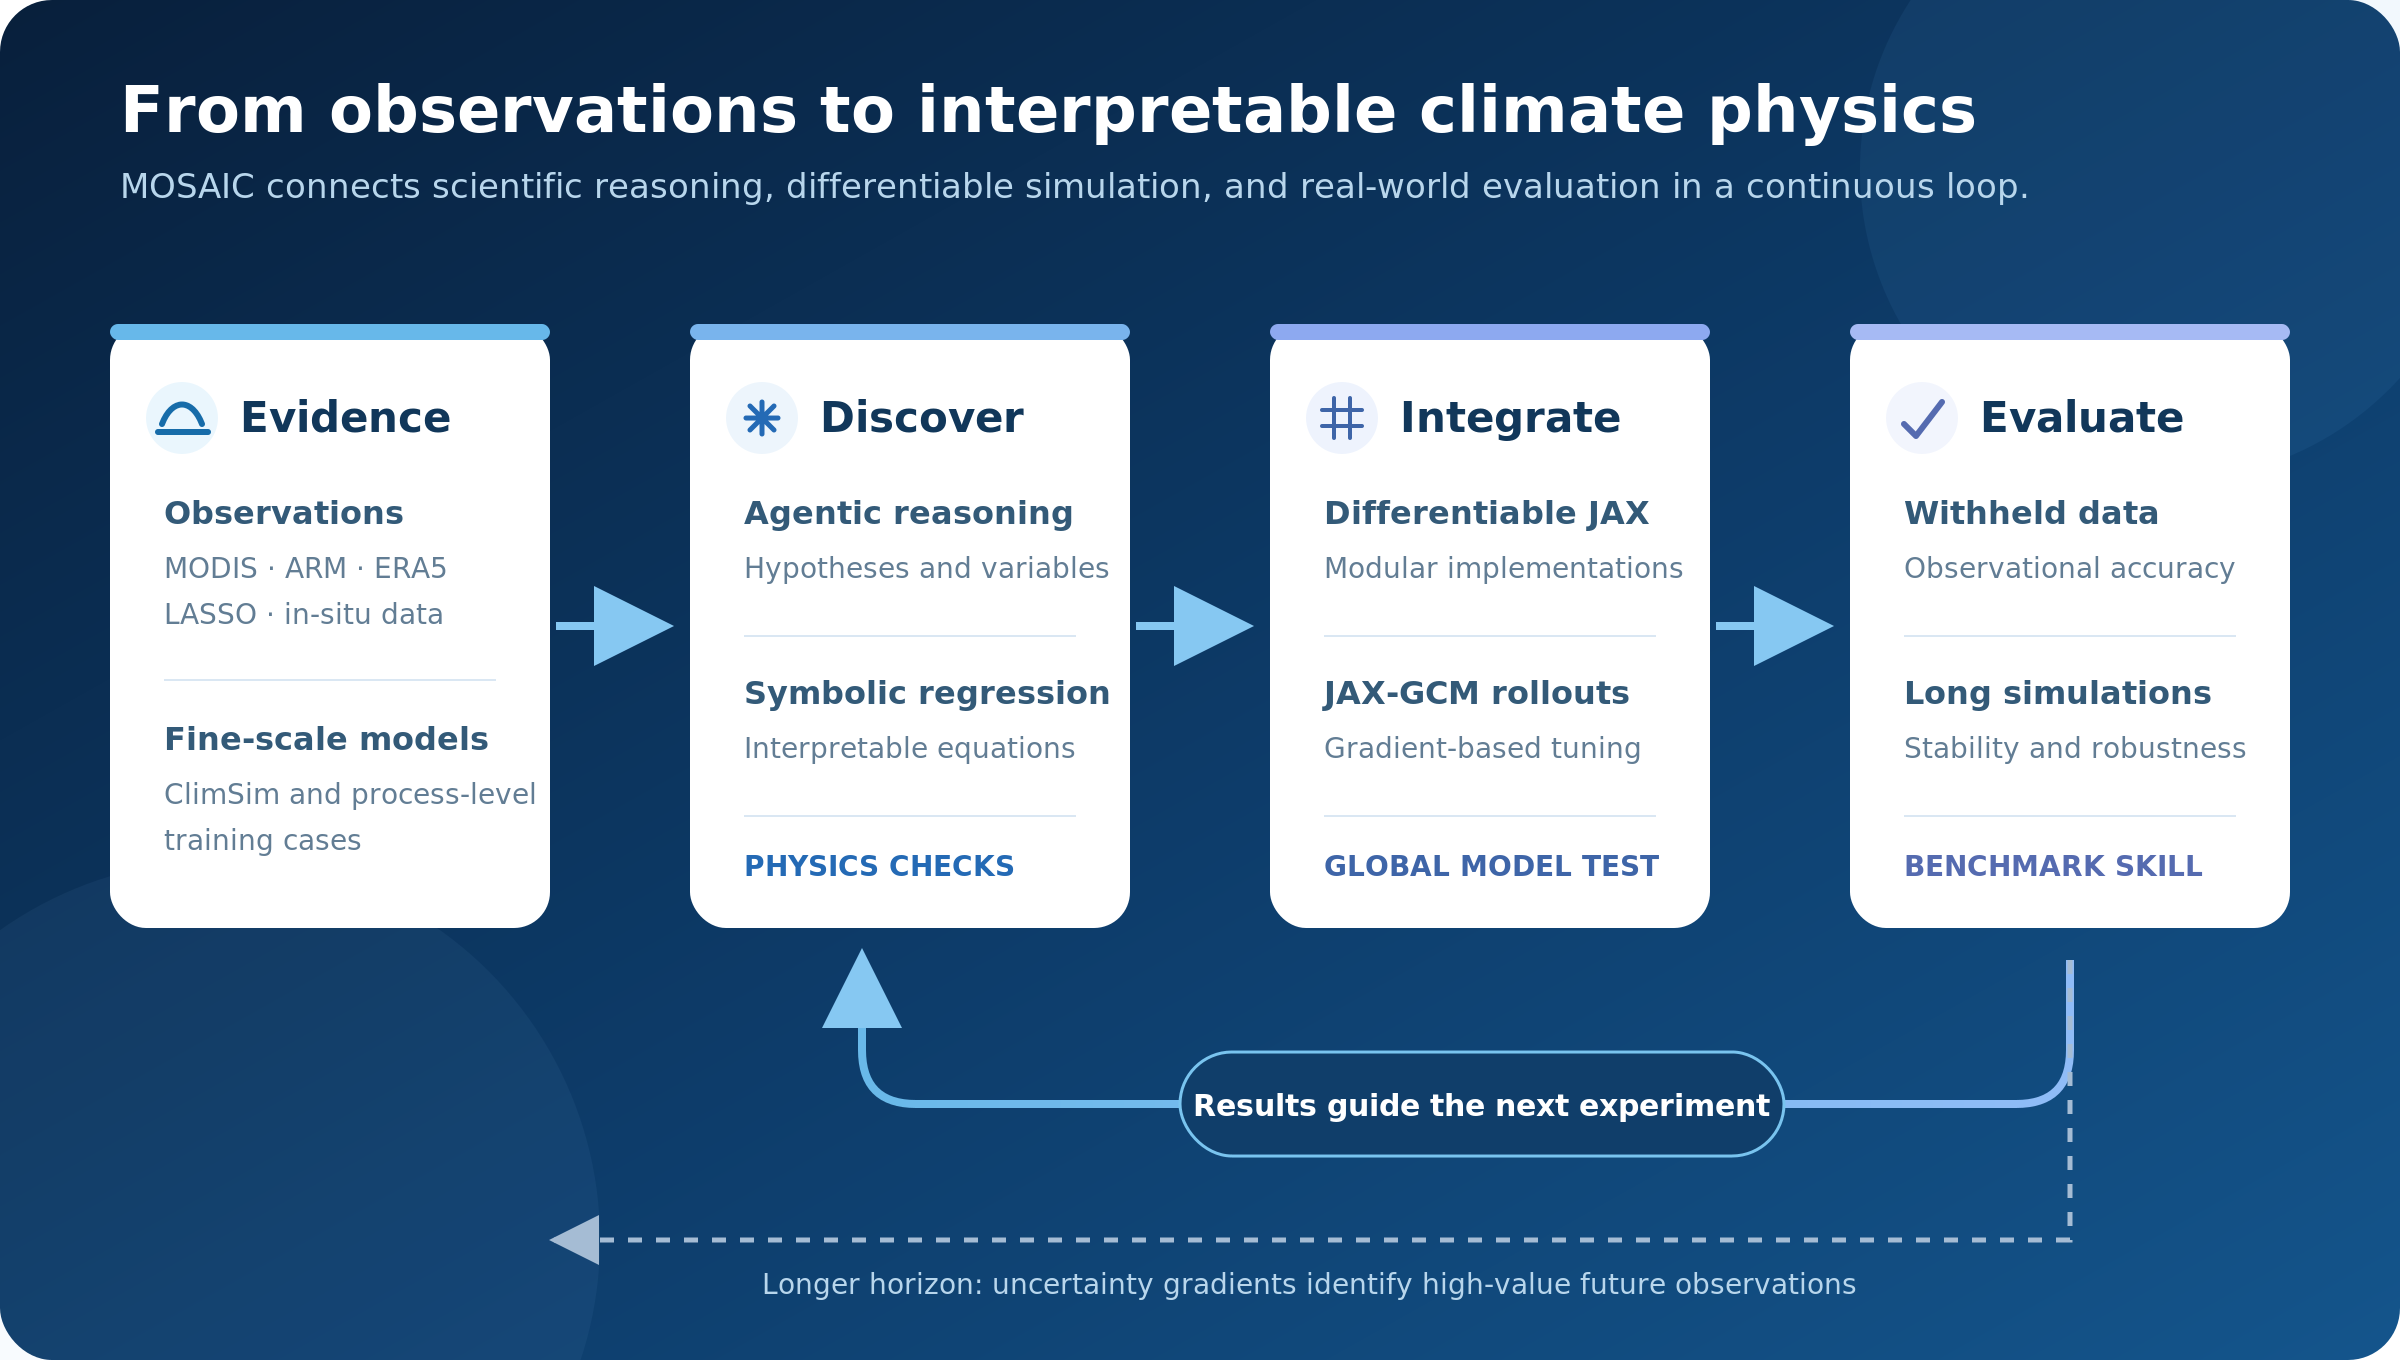
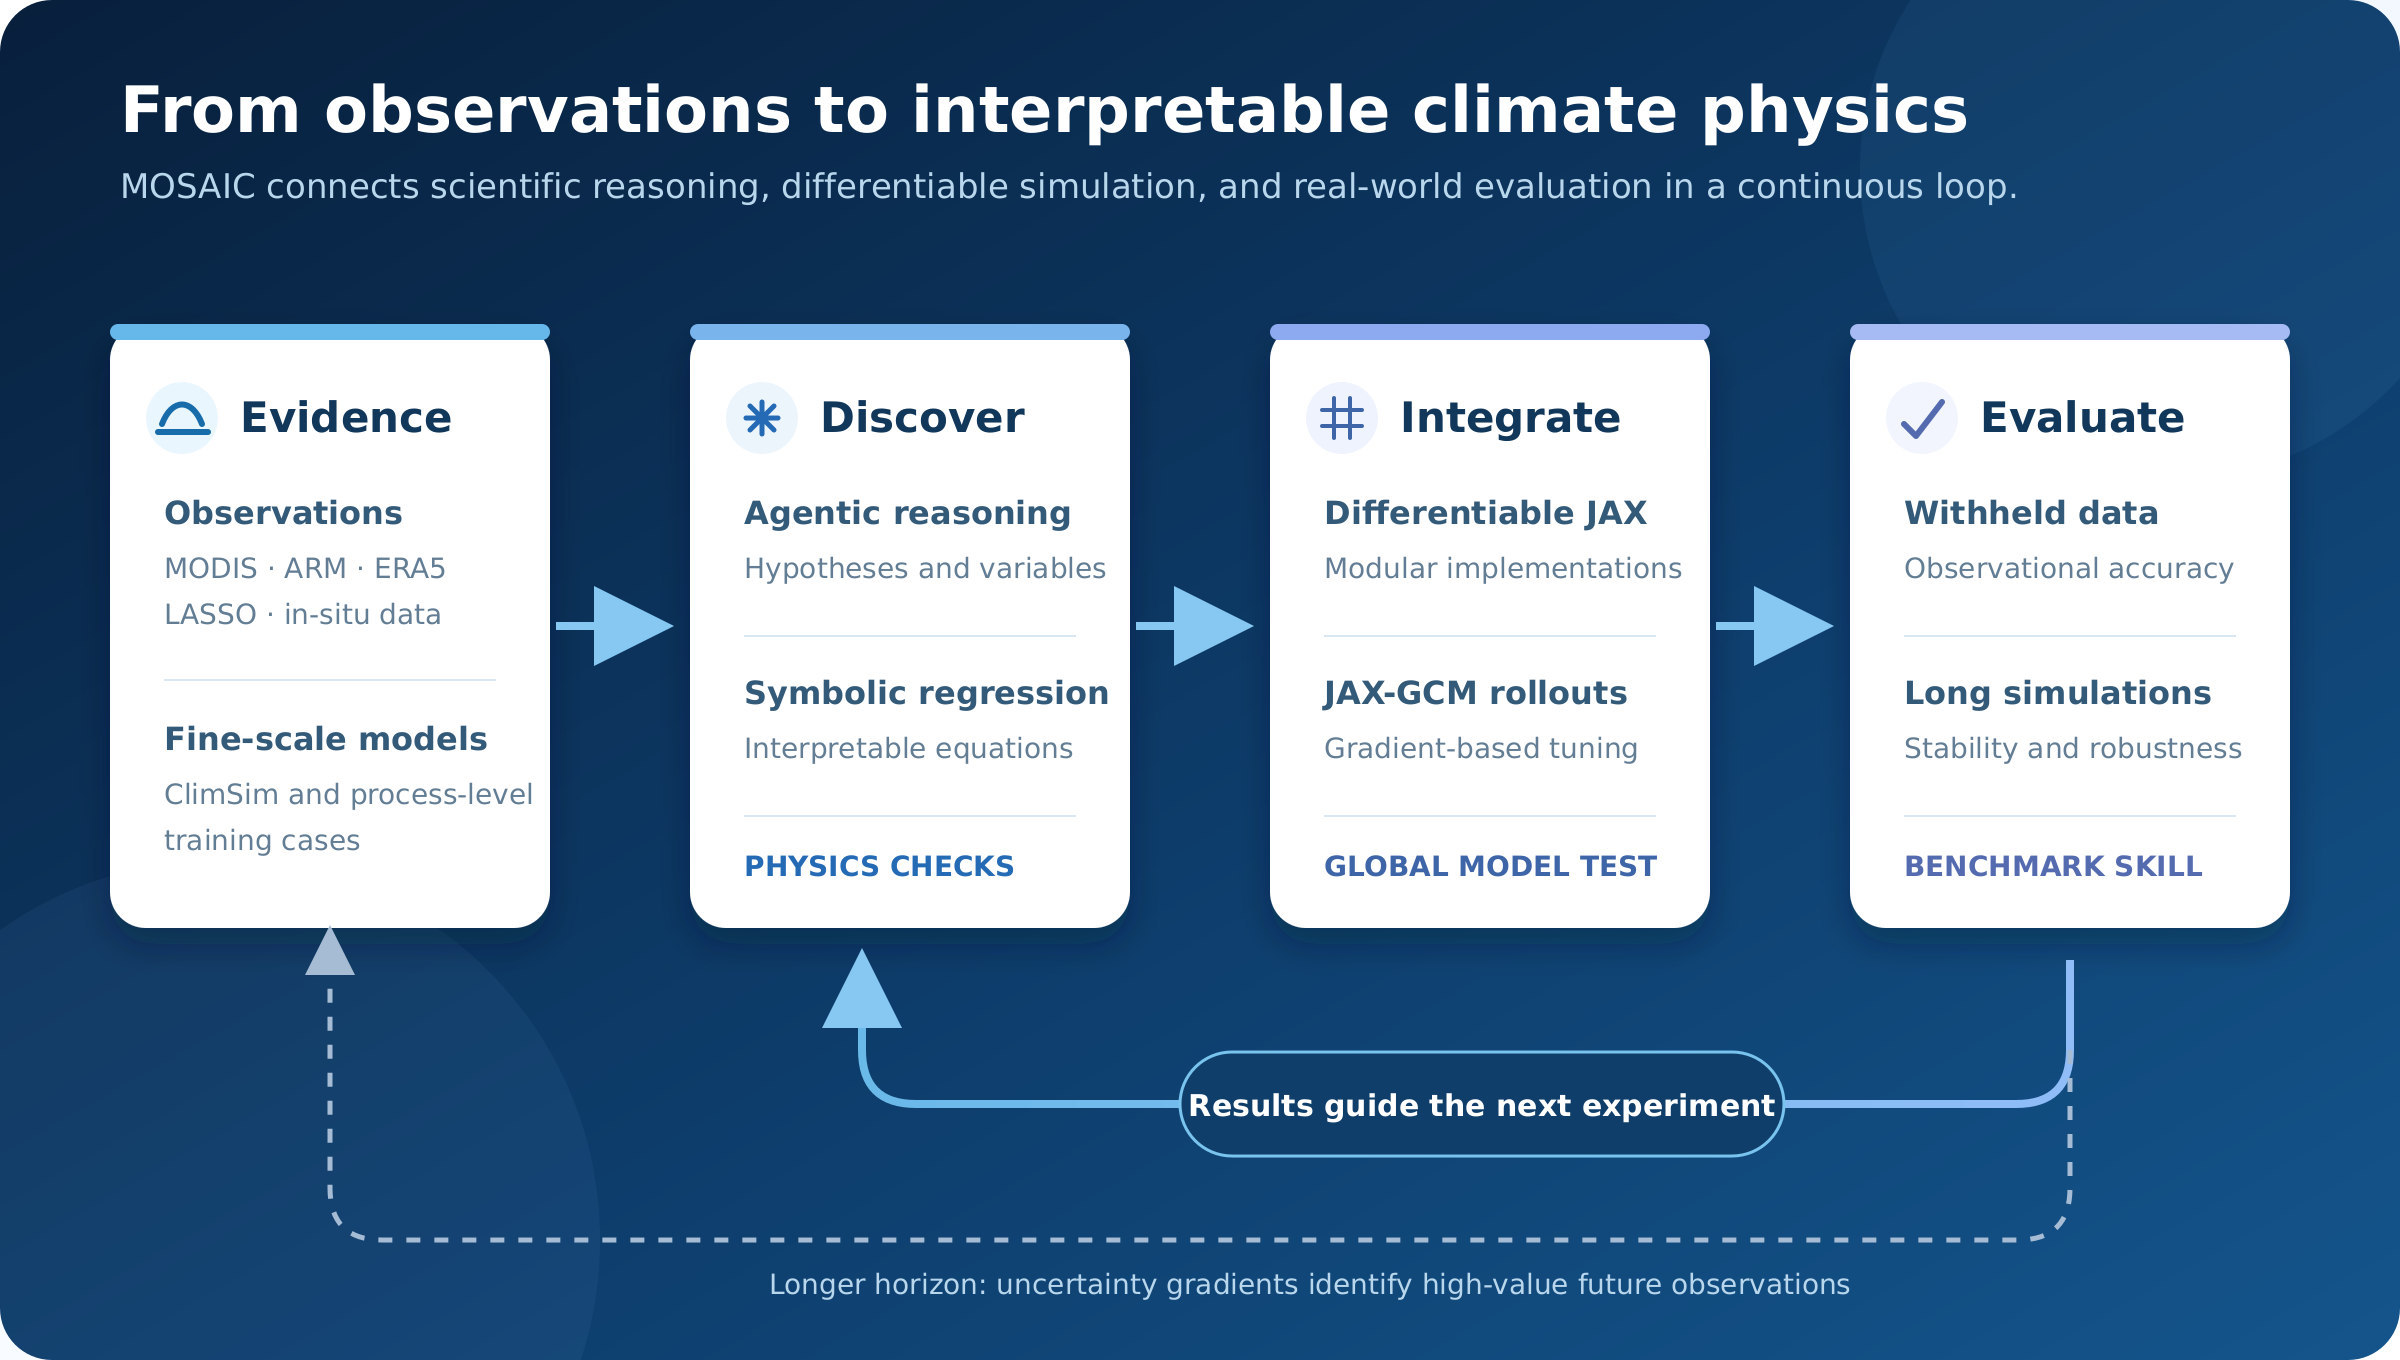
Connect longer-horizon feedback to Evidence

diff --git a/projects/_posts/2026-09-15-mosaic.md b/projects/_posts/2026-09-15-mosaic.md
@@ -32,7 +32,7 @@ At the same time, satellites, field campaigns, reanalyses, and high-resolution s
 The aim is not to replace physical understanding with a black box. It is to expand the scientist's toolkit while retaining analytic equations that can be inspected, challenged, and improved.
 
 <figure class="mosaic-workflow">
-  <img src="{{ '/assets/images/mosaic-workflow@2x.png' | relative_url }}" width="1200" height="680" alt="Flow chart of the MOSAIC research loop: observations and fine-scale models feed agentic equation discovery; candidate equations pass physical checks, are integrated and tuned in JAX-GCM, and are evaluated against withheld data and long simulations; results guide the next experiment." />
+  <img src="{{ '/assets/images/mosaic-workflow@2x.png' | relative_url }}" width="1200" height="680" alt="Flow chart of the MOSAIC research loop: evidence feeds agentic equation discovery, physical checks, JAX-GCM integration, and evaluation; results guide the next experiment, while longer-horizon insights guide future observations back into Evidence." />
   <figcaption>The MOSAIC loop connects evidence across scales to equation discovery, model integration, and global evaluation. Results feed back into the next experiment; in the longer term, model sensitivities can also guide new observations. <a href="{{ '/assets/images/mosaic-workflow.svg' | relative_url }}">Open full-size diagram</a>.</figcaption>
 </figure>
 
